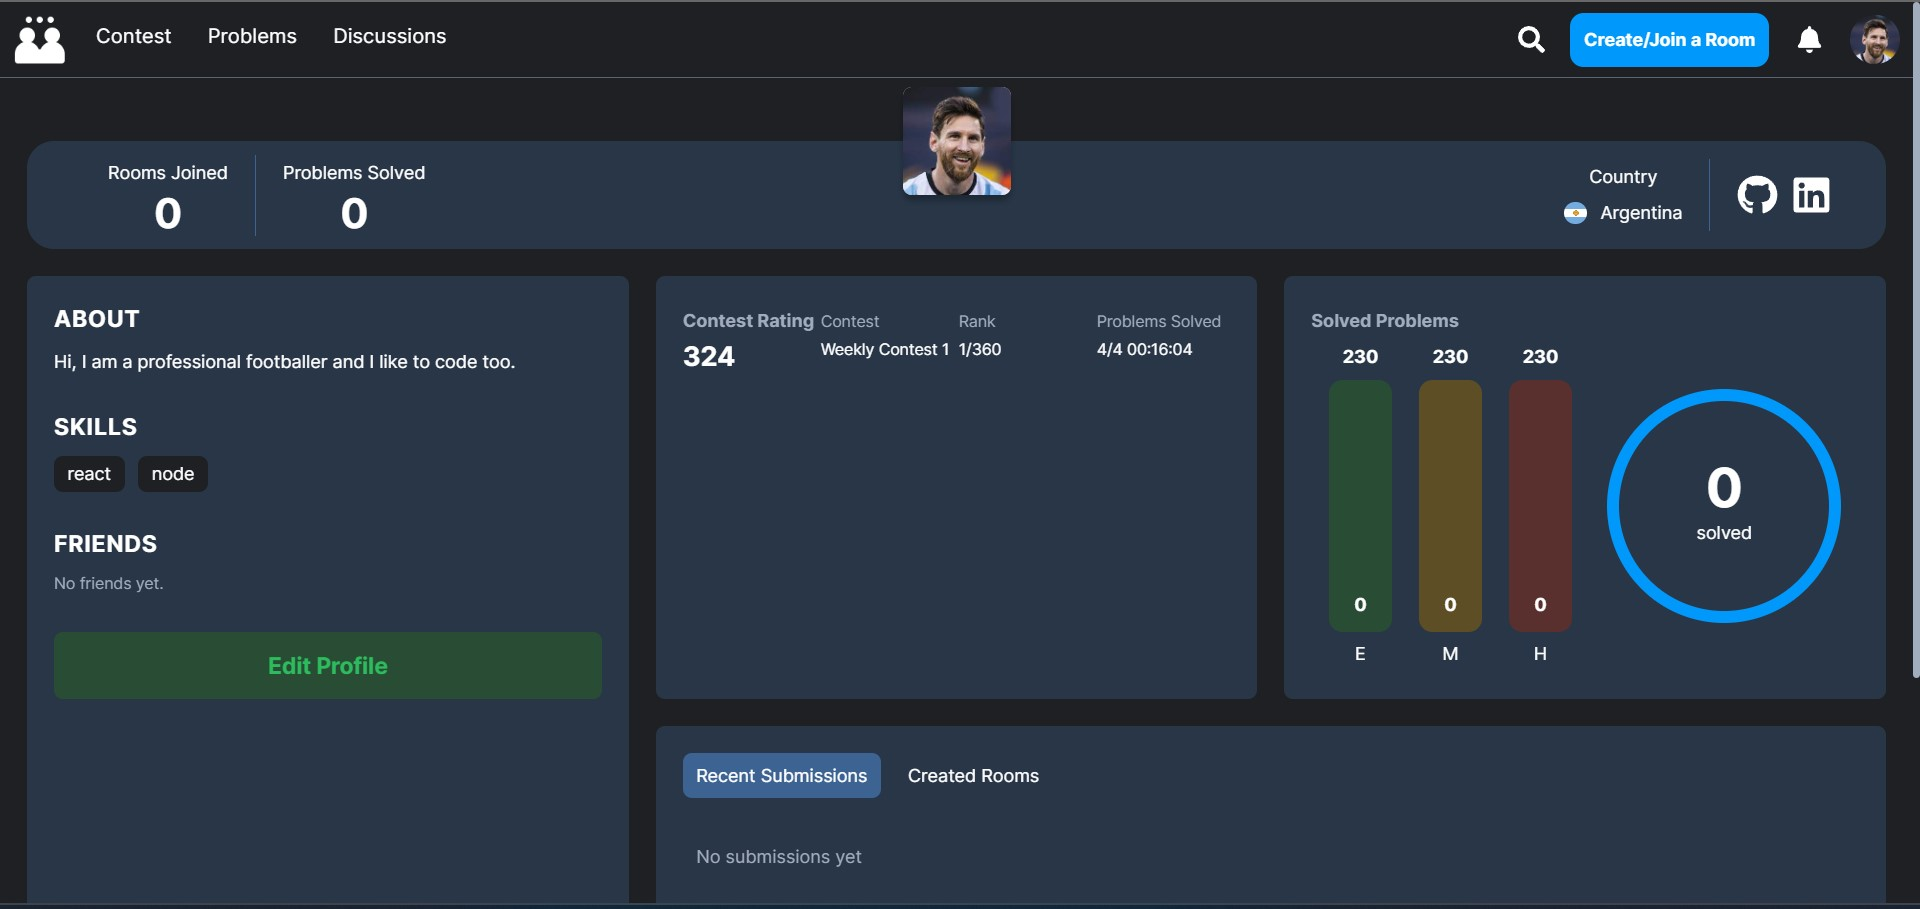
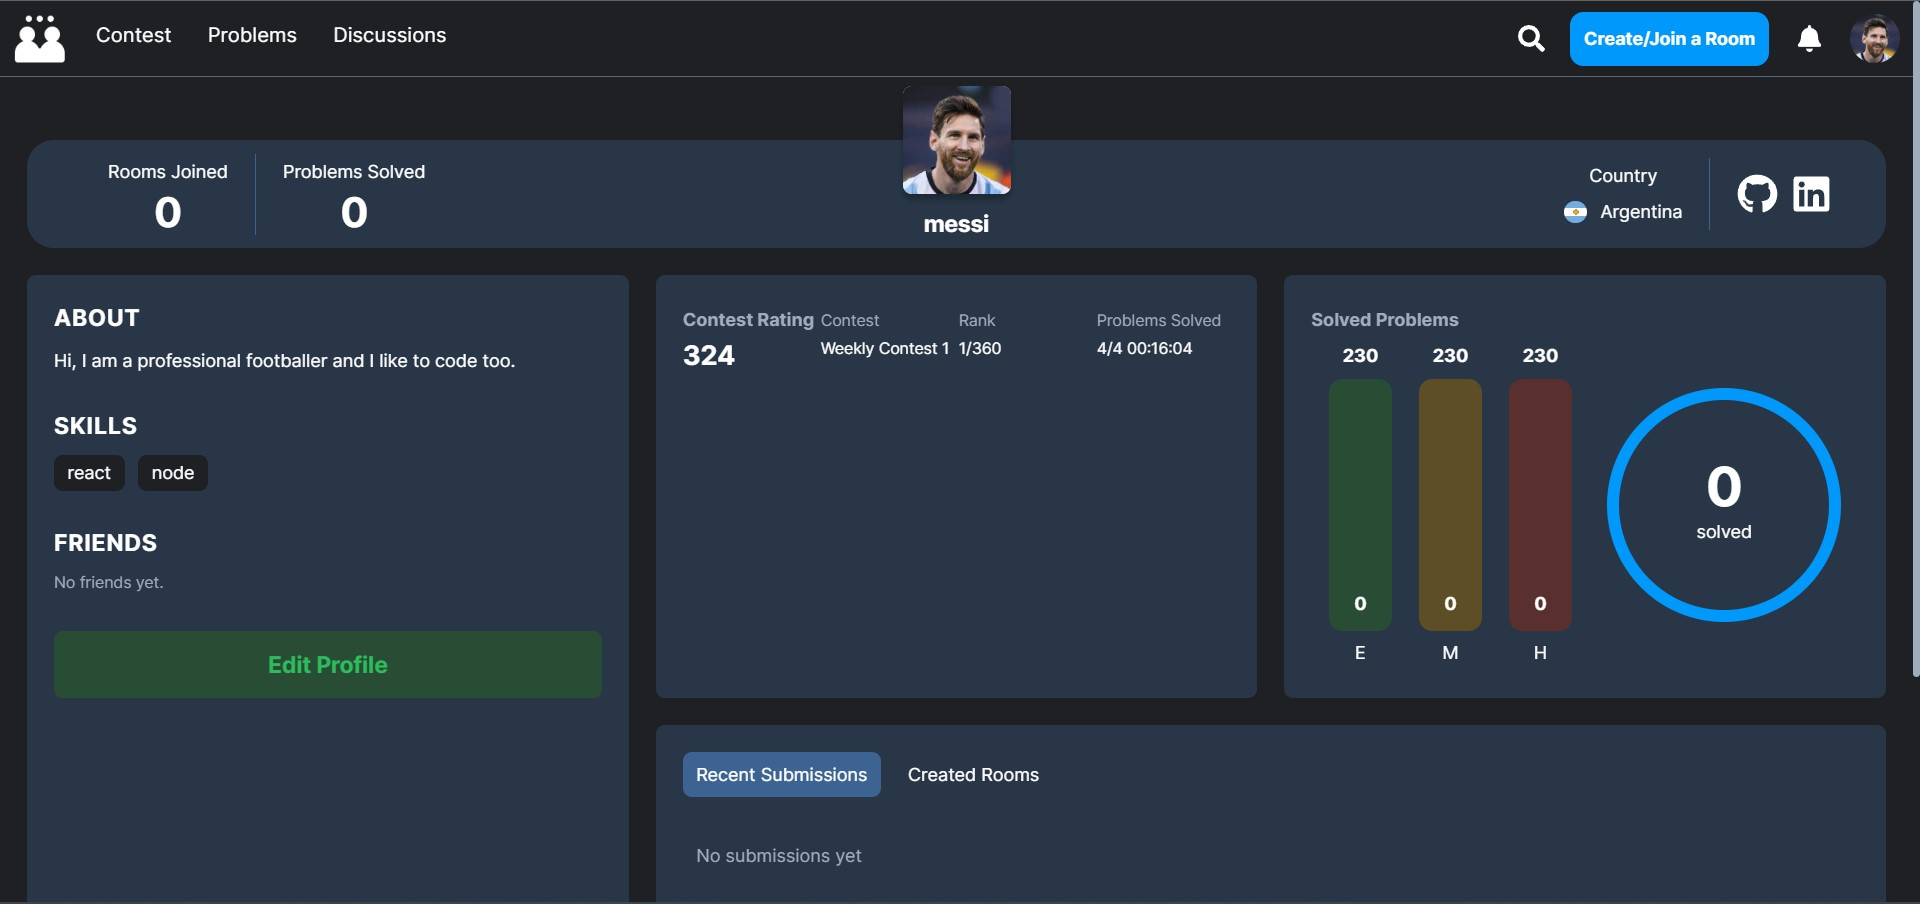
[FIX] fixed minor bugs in UserProfile module

diff --git a/server/controllers/userController.js b/server/controllers/userController.js
@@ -28,10 +28,7 @@ exports.getProfileByUserName = catchAsync(async (req, res, next) => {
 });
 
 exports.updateUserProfile = catchAsync(async (req, res, next) => {
-  const token = req.cookies.jwt;
-  const decoded = await promisify(jwt.verify)(token, process.env.JWT_SECRET);
-
-  const userId = decoded.id;
+  const userId = req.user._id;
   const data = JSON.parse(req.body.data);
 
   if (req.file) {

diff --git a/client/src/components/HomePage/Profile.jsx b/client/src/components/HomePage/Profile.jsx
@@ -273,7 +273,7 @@ const Profile = () => {
             </>
           )}
         </div>
-        <div className="absolute bottom-2 left-1/2 -translate-x-1/2 font-bold text-xl">
+        <div className="absolute bottom-2 left-1/2 -translate-x-1/2 font-bold text-white text-xl">
           {profileData?.username}
         </div>
         <div className="mr-auto flex items-center">

diff --git a/server/models/userProfileModel.js b/server/models/userProfileModel.js
@@ -7,6 +7,7 @@ const userProfileSchema = new mongoose.Schema({
     required: [true, "User ID is required"],
     ref: "User",
   },
+  username: String,
   avatar: {
     type: {
       contentType: String,
